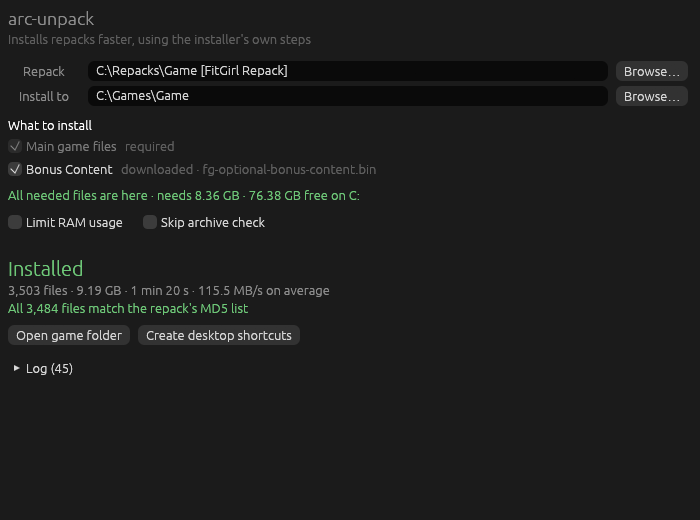
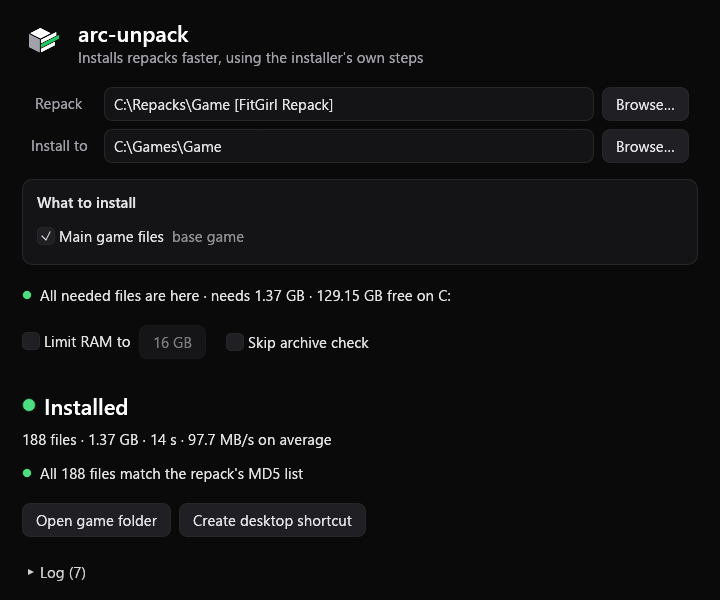
📸 README screenshot of the restyled window

diff --git a/README.md b/README.md
@@ -12,7 +12,7 @@
 
 **[→ Benchmarks: every game we tested, its own installer vs arc-unpack](docs/BENCHMARKS.md)**
 
-<p align="center"><img src="docs/screenshot.png" alt="arc-unpack after an install: what was installed, how long it took, and the verified file count" width="640"></p>
+<p align="center"><img src="docs/screenshot.png" alt="arc-unpack after an install: what was installed, how long it took, and the verified file count" width="720"></p>
 
 ## Use it
 
